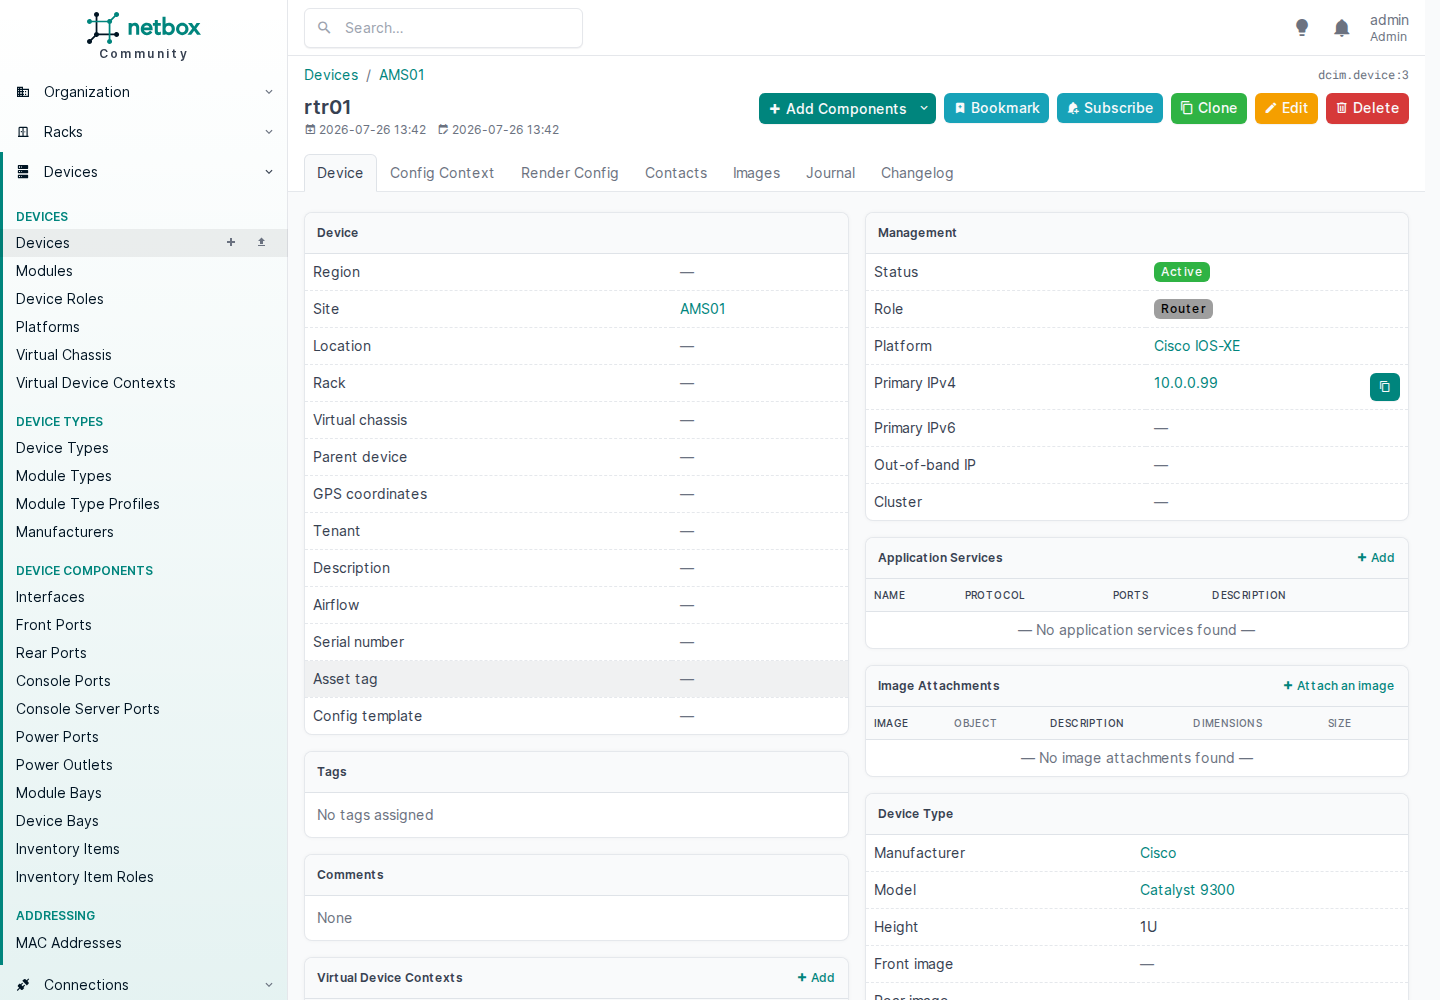
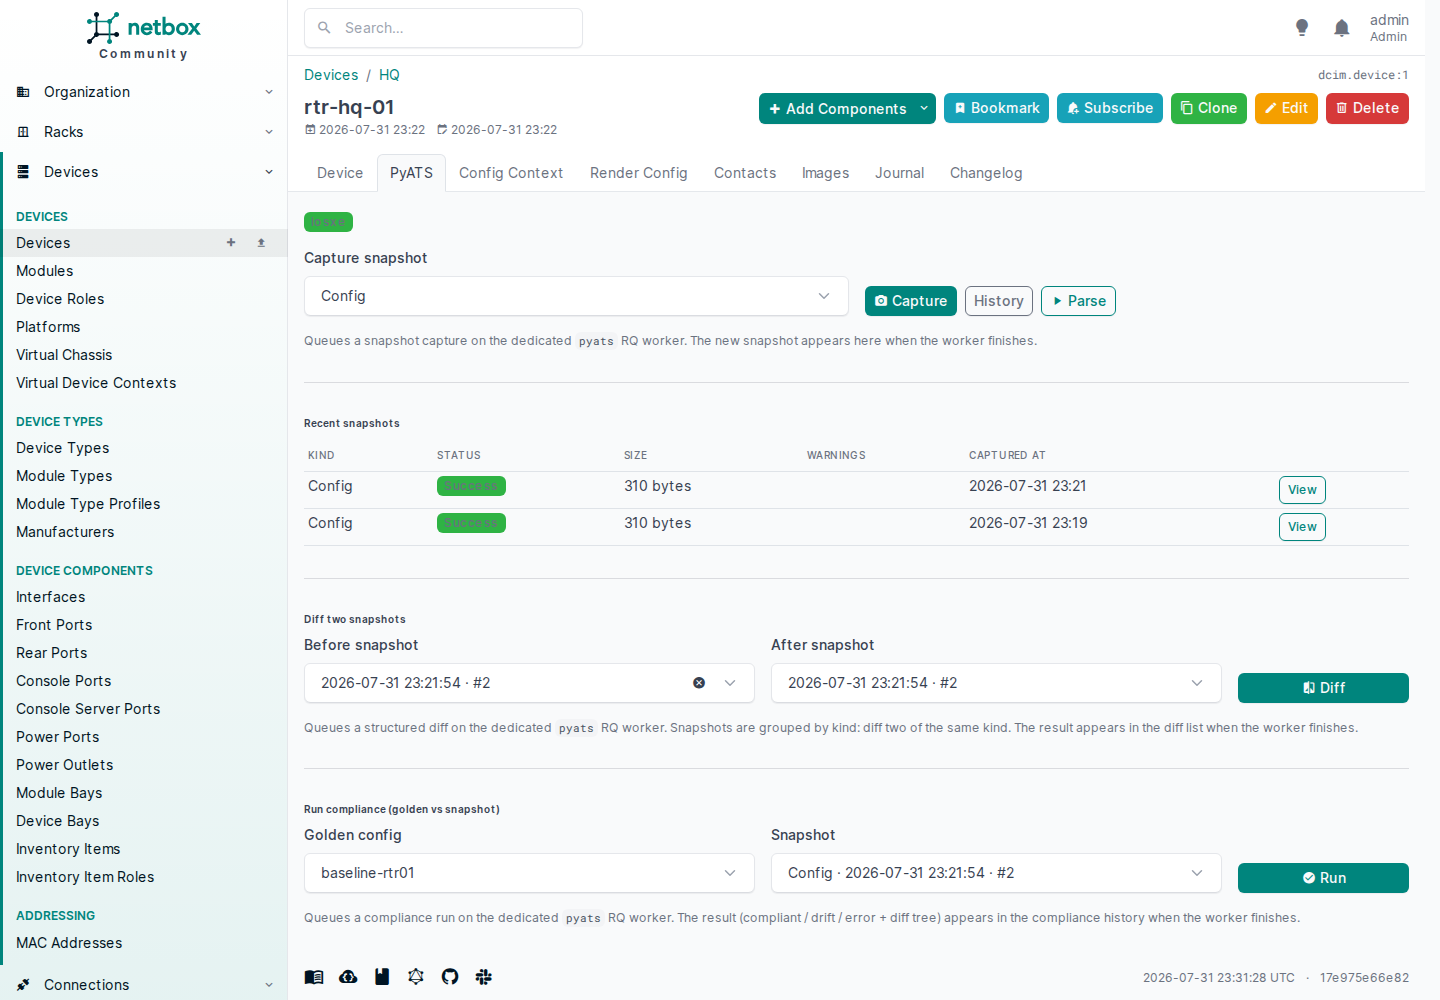
docs(ATW-406): refresh device-pyats-tab screenshot post-tab-move
Recapture docs/screenshots/device-pyats-tab.png against the real device-page
PyATS tab (/dcim/devices/<id>/pyats/) introduced in PR #86 (ATW-393, ADR-0007).
The old image (2026-07-27) showed the pre-PR-#86 PluginTemplateExtension
right-column card chrome; the new image shows the real tab container, capture
form (config / state / full / parse), recent-snapshot history with status
badges, and the diff + compliance pickers.

README.md and docs/user/usage.md captions already say 'PyATS tab'; no prose
change needed. Security scrub (ATW-112) clear: no host facts / non-loopback
IPs / usernames / tailscale hostnames in the rendered tab.

CHANGELOG: Docs section entry.

diff --git a/CHANGELOG.md b/CHANGELOG.md
@@ -89,3 +89,7 @@ adheres to [Semantic Versioning](https://semver.org/spec/v2.0.0.html).
 ### Dev
 
 - `dev/Dockerfile.pyats-worker`: install `python3.14-dev` + `gcc` before `uv pip install pyats[full]` so `ruamel-yaml-clib`'s C extension can build on NetBox 4.6's Python 3.14 slim image. Dev-only build-dep install; the supported runtime matrix (Python 3.10–3.12) is unchanged (cp312 wheel exists for production). See ATW-25 and [ADR-0003](docs/adr/0003-netbox46-migration-and-worker-toolchain.md).
+
+### Docs
+
+- Refresh `docs/screenshots/device-pyats-tab.png` post-ATW-393 tab move (ATW-406). The old screenshot (2026-07-27) showed the pre-PR-#86 `PluginTemplateExtension` right-column card chrome; the new image shows the real device-page PyATS tab (`/dcim/devices/<id>/pyats/`, registered via `register_model_view` per ADR-0007) — the tab container, capture form (config / state / full / parse), recent-snapshot history with status badges, and the diff + compliance pickers. README and `docs/user/usage.md` captions already said "PyATS tab"; no prose change needed.
